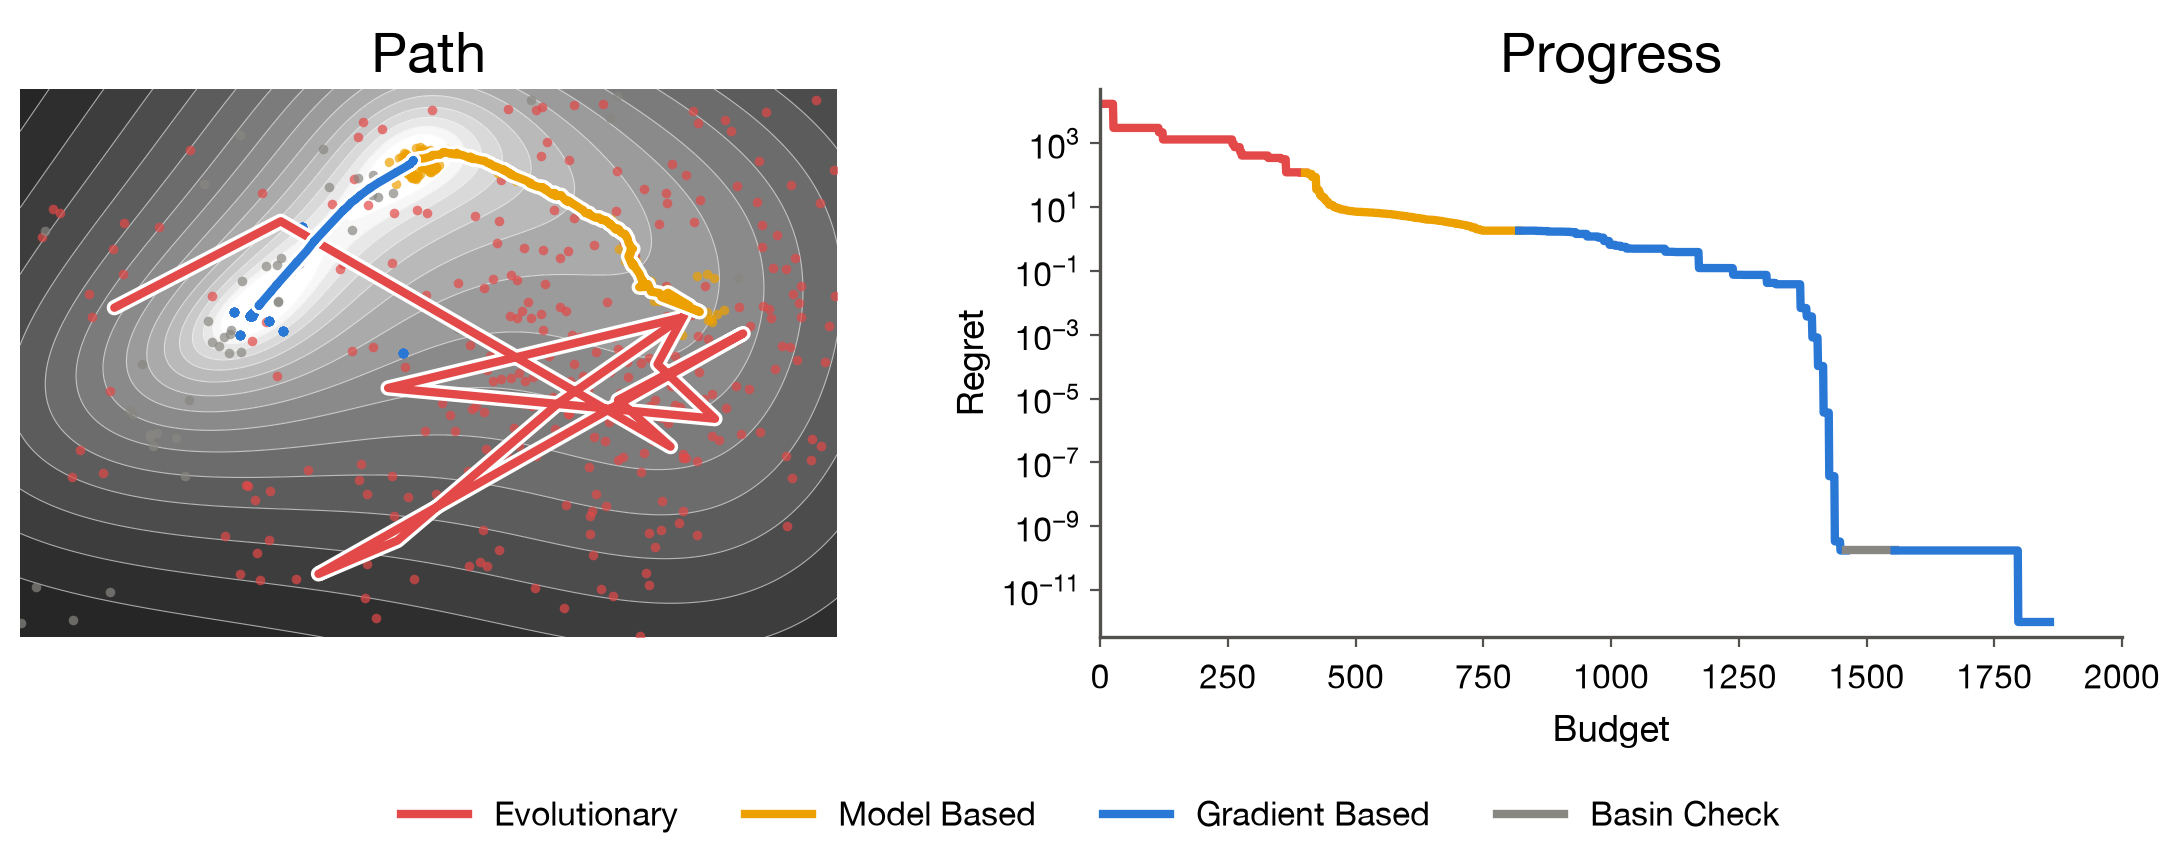
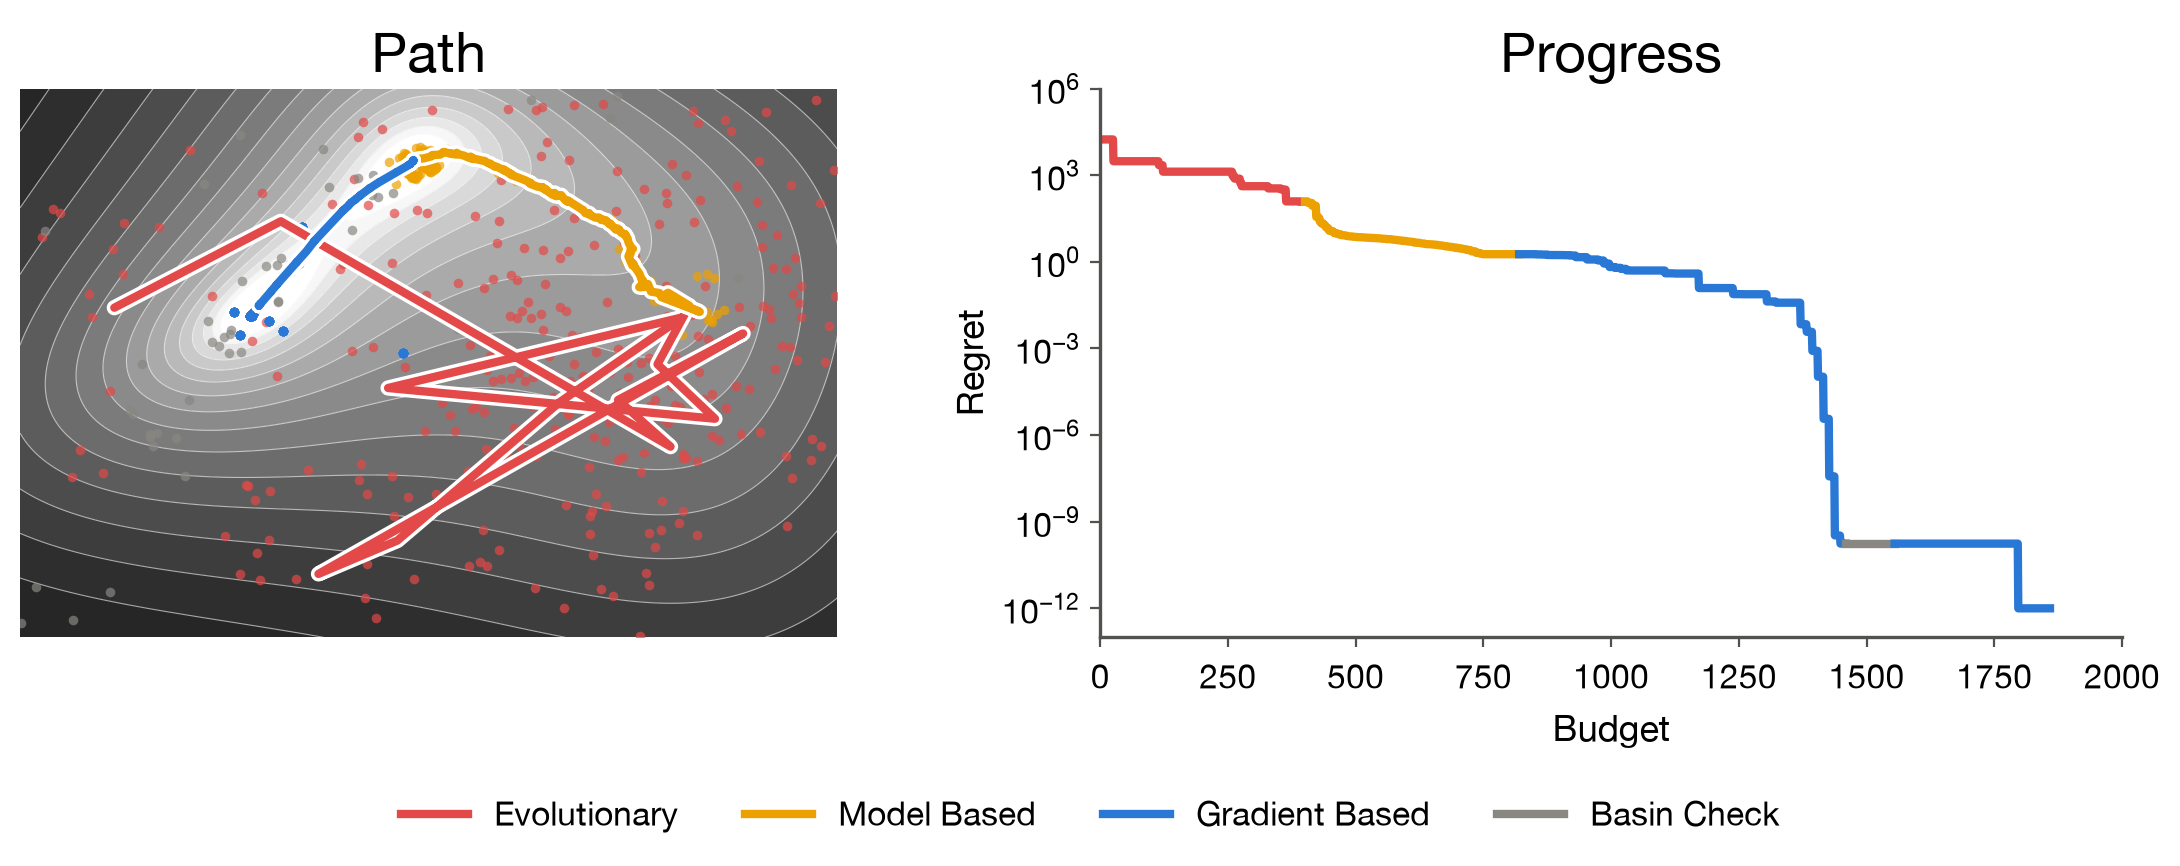
Add single-optimizer Rosenbrock figures sharing the agent switching slice
Extend the figure palette to five validated series. Refactor the switching figure so any run on rosenbrock_d10_i1 projects onto the agent's slice with a fixed Progress range, and add BOBYQA and CMA-ES figures and GIFs drawn the same way, a standalone stage legend, and an untitled crossover variant.

diff --git a/main/scripts/make_agent_switching_plot.py b/main/scripts/make_agent_switching_plot.py
@@ -32,7 +32,10 @@ all); yellow is under 3:1 contrast, relieved by the legend labels. Basin Check
 is neutral gray, not a categorical hue.
 
 Usage (from main/):
-    python scripts/make_agent_switching_plot.py    # writes results_linux/agent_switching_rosenbrock.png
+    python scripts/make_agent_switching_plot.py
+    # writes results_linux/agent_switching_rosenbrock.png and
+    # results_linux/legend_rosenbrock_stages.png: the stage legend on its own,
+    # one entry per row, shared by the agent and single-optimizer figures
 """
 
 from __future__ import annotations
@@ -58,6 +61,7 @@ RUN = MAIN / "agent_runs/astra_max_2000_20261022/analysis/rosenbrock_d10_i1"
 TASK_KEY = "rosenbrock10"
 F_OPT_META = MAIN / "results_full/rosenbrock_d10_i1/cma_es/seed_0/meta.json"
 OUT = MAIN / "results_linux/agent_switching_rosenbrock.png"
+OUT_LEGEND = MAIN / "results_linux/legend_rosenbrock_stages.png"
 
 # (legend label, color, optimizer labels in the trace)
 STAGES = [
@@ -72,6 +76,11 @@ BACKGROUND = LinearSegmentedColormap.from_list("gray_ramp", ["#ffffff", "#262626
 N_BANDS = 14
 HALO = [pe.Stroke(linewidth=fs.LINE_WIDTH + 2.5, foreground="#ffffff"), pe.Normal()]
 REGRET_FLOOR = 1e-12
+# One Progress y-range for the agent and every single-optimizer figure on this
+# task (make_single_optimizer_plot.py), so their panels can be compared directly.
+# It spans the agent's 0 regret (drawn at fs.FLOOR) up to the highest starting
+# regret among those runs (CMA-ES seed 1, ~4e5).
+PROGRESS_YLIM = (1e-13, 1e6)
 
 
 def load_run():
@@ -100,7 +109,11 @@ def incumbent_path(regret):
 
 
 def slice_geometry(X, regret, stage, f_opt):
-    """Project every point onto the plane and evaluate the objective on a grid there."""
+    """The agent's plane (see plane_basis) and the objective evaluated on a grid in it.
+
+    Any run on this task can be drawn on the same slice with project_run, so
+    figures for different optimizers share one landscape.
+    """
     task = TASKS[TASK_KEY]()
     origin, u, v = plane_basis(X, regret, stage)
     P = (X - origin) @ np.stack([u, v]).T
@@ -113,27 +126,32 @@ def slice_geometry(X, regret, stage, f_opt):
     Z = np.array([task._f(p) for p in pts.reshape(-1, X.shape[1])]).reshape(g1.shape) - f_opt
     logZ = np.log10(np.maximum(Z, REGRET_FLOOR))
     levels = np.linspace(*np.percentile(logZ, [2, 98]), N_BANDS + 1)
-    return dict(P=P, inc=inc, g1=g1, g2=g2, logZ=logZ, levels=levels)
+    return dict(origin=origin, basis=np.stack([u, v]), g1=g1, g2=g2, logZ=logZ, levels=levels)
 
 
-def draw_path(ax, geo, stage, upto):
+def project_run(geo, X, regret, stage):
+    """A run's points on the slice plus what the panels need to draw it."""
+    return dict(P=(X - geo["origin"]) @ geo["basis"].T, inc=incumbent_path(regret), regret=regret, stage=stage)
+
+
+def draw_path(ax, geo, run, upto, stages=STAGES):
     """Background slice plus every point and incumbent among the first `upto` evaluations."""
-    P, g1, g2 = geo["P"], geo["g1"], geo["g2"]
+    P, stage, g1, g2 = run["P"], run["stage"], geo["g1"], geo["g2"]
     ax.contourf(g1, g2, geo["logZ"], levels=geo["levels"], cmap=BACKGROUND, extend="both")
     ax.contour(g1, g2, geo["logZ"], levels=geo["levels"], colors="#ffffff", linewidths=0.4, alpha=0.6)
     shown = np.arange(len(P)) < upto
     in_view = (P[:, 0] >= g1.min()) & (P[:, 0] <= g1.max()) & (P[:, 1] >= g2.min()) & (P[:, 1] <= g2.max())
-    for i, (_, color, _) in enumerate(STAGES):
+    for i, (_, color, _) in enumerate(stages):
         m = (stage == i) & in_view & shown
         ax.scatter(P[m, 0], P[m, 1], s=12, color=color, alpha=0.7, linewidths=0, zorder=2)
     # One polyline per run of consecutive incumbents from the same stage, so the
     # white outline is drawn once around the run rather than around every step.
     # Each run starts at the previous run's last incumbent to keep the path joined.
-    inc = geo["inc"][geo["inc"] < upto]
+    inc = run["inc"][run["inc"] < upto]
     runs = np.split(np.arange(len(inc)), np.flatnonzero(np.diff(stage[inc])) + 1) if len(inc) else []
-    for run in runs:
-        idx = inc[np.r_[max(run[0] - 1, 0), run]]
-        ax.plot(P[idx, 0], P[idx, 1], color=STAGES[stage[inc[run[0]]]][1], linewidth=fs.LINE_WIDTH,
+    for r in runs:
+        idx = inc[np.r_[max(r[0] - 1, 0), r]]
+        ax.plot(P[idx, 0], P[idx, 1], color=stages[stage[inc[r[0]]]][1], linewidth=fs.LINE_WIDTH,
                 solid_capstyle="round", solid_joinstyle="round", path_effects=HALO, zorder=3)
     ax.set_xlim(g1.min(), g1.max())
     ax.set_ylim(g2.min(), g2.max())
@@ -144,36 +162,50 @@ def draw_path(ax, geo, stage, upto):
     ax.set_title("Path", fontsize=fs.TITLE_SIZE)
 
 
-def draw_progress(ax, regret, stage, upto):
-    """Best-so-far regret over the first `upto` evaluations; axes fixed to the full run."""
-    best = np.maximum(np.minimum.accumulate(regret), fs.FLOOR)
+def draw_progress(ax, run, upto, stages=STAGES, ylim=PROGRESS_YLIM):
+    """Best-so-far regret over the first `upto` evaluations, on fixed axes."""
+    stage = run["stage"]
+    best = np.maximum(np.minimum.accumulate(run["regret"]), fs.FLOOR)
     x = np.arange(1, len(best) + 1)
     starts = np.flatnonzero(np.r_[True, stage[1:] != stage[:-1]])
     for a, b in zip(starts, np.r_[starts[1:], len(best)]):
         if a >= upto:
             break
         lo = max(a - 1, 0)  # join each stage to the previous one's last point
-        ax.plot(x[lo:min(b, upto)], best[lo:min(b, upto)], color=STAGES[stage[a]][1], linewidth=fs.LINE_WIDTH)
+        ax.plot(x[lo:min(b, upto)], best[lo:min(b, upto)], color=stages[stage[a]][1], linewidth=fs.LINE_WIDTH)
     fs.style_axes(ax, "Progress", 2000, ylabel=True)
-    ax.set_ylim(best.min() / 3, best.max() * 3)
+    ax.set_ylim(*ylim)
 
 
-def build_figure(geo, regret, stage, upto, dpi=fs.DPI):
+def build_figure(geo, run, upto, stages=STAGES, ylim=PROGRESS_YLIM, dpi=fs.DPI):
     fig, (ax_path, ax_prog) = plt.subplots(1, 2, figsize=fs.FIGSIZE_1x2, dpi=dpi,
                                            gridspec_kw={"width_ratios": [1, 1.25]})
-    draw_path(ax_path, geo, stage, upto)
-    draw_progress(ax_prog, regret, stage, upto)
-    handles = [Line2D([], [], color=color, linewidth=fs.LINE_WIDTH) for _, color, _ in STAGES]
-    fig.legend(handles, [label for label, _, _ in STAGES], loc="lower center", ncol=len(STAGES),
+    draw_path(ax_path, geo, run, upto, stages)
+    draw_progress(ax_prog, run, upto, stages, ylim)
+    handles = [Line2D([], [], color=color, linewidth=fs.LINE_WIDTH) for _, color, _ in stages]
+    fig.legend(handles, [label for label, _, _ in stages], loc="lower center", ncol=len(stages),
                frameon=False, fontsize=fs.LEGEND_SIZE, bbox_to_anchor=(0.5, -0.04))
     fig.tight_layout(w_pad=4, rect=(0, 0.06, 1, 1))
     return fig
 
 
+def write_legend(out, stages=STAGES):
+    """The stage legend as its own image: one entry per row, nothing else."""
+    fig = plt.figure(figsize=(3, 2))
+    handles = [Line2D([], [], color=color, linewidth=fs.LINE_WIDTH) for _, color, _ in stages]
+    legend = fig.legend(handles, [label for label, _, _ in stages], loc="center", ncol=1,
+                        frameon=False, fontsize=fs.LEGEND_SIZE)
+    fig.savefig(out, dpi=fs.DPI, bbox_inches=legend.get_window_extent().transformed(fig.dpi_scale_trans.inverted()).padded(0.05))
+    plt.close(fig)
+    print("wrote", out)
+
+
 def main():
+    write_legend(OUT_LEGEND)
     X, regret, stage = load_run()
     f_opt = json.loads(F_OPT_META.read_text())["task_f_opt"]
-    fig = build_figure(slice_geometry(X, regret, stage, f_opt), regret, stage, upto=len(regret))
+    geo = slice_geometry(X, regret, stage, f_opt)
+    fig = build_figure(geo, project_run(geo, X, regret, stage), upto=len(regret))
     fig.savefig(OUT, dpi=fs.DPI, bbox_inches="tight")
     print("wrote", OUT)
 

diff --git a/main/scripts/make_single_optimizer_plot.py b/main/scripts/make_single_optimizer_plot.py
@@ -1,0 +1,86 @@
+"""Single optimizers on rosenbrock_d10_i1, drawn like the agent switching
+figure so they can be compared side by side (make_agent_switching_plot.py,
+make_agent_switching_gif.py). --method picks the run:
+
+  bobyqa   the best single optimizer: lowest final regret among the nine
+           standalone baselines (6.3e-13, stopping itself after 1,596
+           evaluations; deterministic, one seed).
+  cma_es   CMA-ES alone, the agent's first stage run for the whole budget.
+           It has 10 seeds; the animation needs one trajectory, so it uses
+           the seed whose final regret is closest to the 10-seed median
+           (seed 1: 4.13 vs. median 4.40). Seeds range 2.8-8.6.
+
+Runs come from results_full, the baseline set the Astra max campaign is
+scored against (its summary.csv). results_linux is not used: its BOBYQA run on
+this task has a 100-evaluation budget.
+
+Comparability with the agent figure:
+  - same landscape slice: the agent's plane, extents and contour bands;
+    the run's points are projected onto it (positions exact in the plane,
+    distance from the plane not shown);
+  - same Progress axes: x 0-2000, y fixed by sw.PROGRESS_YLIM for every run;
+  - same color and label for the method family as the agent's stage
+    (Model Based yellow, Evolutionary red);
+  - the GIF steps the same number of evaluations per frame as the agent GIF,
+    so both play at the same speed.
+
+Usage (from main/):
+    python scripts/make_single_optimizer_plot.py                   # bobyqa
+    python scripts/make_single_optimizer_plot.py --method cma_es
+    # writes results_linux/single_optimizer_rosenbrock_<method>.{png,gif}
+"""
+
+from __future__ import annotations
+
+import argparse
+import csv
+import json
+import sys
+from pathlib import Path
+
+import numpy as np
+
+sys.path.insert(0, str(Path(__file__).resolve().parent))
+import make_agent_switching_plot as sw  # noqa: E402  (also applies figure_style rcParams)
+import make_agent_switching_gif as anim  # noqa: E402
+import figure_style as fs  # noqa: E402
+
+# method -> (seed, stage label, color); label and color match the agent's stage for that family
+METHODS = {
+    "bobyqa": (0, "Model Based", "#eda100"),
+    "cma_es": (1, "Evolutionary", "#e34948"),  # median-final seed, see module docstring
+}
+
+
+def load_baseline(method, seed):
+    run_dir = sw.MAIN / f"results_full/rosenbrock_d10_i1/{method}/seed_{seed}"
+    rows = list(csv.DictReader(open(run_dir / "trace.csv")))
+    meta = json.loads((run_dir / "meta.json").read_text())
+    X = np.array([[float(r[f"x{i}"]) for i in range(meta["task_dim"])] for r in rows])
+    regret = np.array([float(r["y"]) for r in rows]) - meta["task_f_opt"]
+    return X, regret, np.zeros(len(rows), dtype=int)
+
+
+def main():
+    parser = argparse.ArgumentParser(description=__doc__.splitlines()[0])
+    parser.add_argument("--method", choices=METHODS, default="bobyqa")
+    method = parser.parse_args().method
+    seed, label, color = METHODS[method]
+    stages = [(label, color, {method})]
+    out_png = sw.MAIN / f"results_linux/single_optimizer_rosenbrock_{method}.png"
+    out_gif = out_png.with_suffix(".gif")
+    Xa, regret_a, stage_a = sw.load_run()
+    f_opt = json.loads(sw.F_OPT_META.read_text())["task_f_opt"]
+    geo = sw.slice_geometry(Xa, regret_a, stage_a, f_opt)
+    run = sw.project_run(geo, *load_baseline(method, seed))
+
+    fig = sw.build_figure(geo, run, len(run["regret"]), stages)
+    fig.savefig(out_png, dpi=fs.DPI, bbox_inches="tight")
+    print("wrote", out_png)
+
+    evals_per_frame = len(regret_a) / anim.N_FRAMES
+    anim.write_gif(geo, run, out_gif, stages, n_frames=round(len(run["regret"]) / evals_per_frame))
+
+
+if __name__ == "__main__":
+    main()

diff --git a/main/scripts/make_agent_switching_gif.py b/main/scripts/make_agent_switching_gif.py
@@ -52,28 +52,33 @@ def to_shared_palette(frames, n_colors=128):
     return out
 
 
-def main():
-    X, regret, stage = sw.load_run()
-    f_opt = json.loads(sw.F_OPT_META.read_text())["task_f_opt"]
-    geo = sw.slice_geometry(X, regret, stage, f_opt)
-    n = len(regret)
-    uptos = sorted({max(1, round(n * (k + 1) / N_FRAMES)) for k in range(N_FRAMES)})
+def write_gif(geo, run, out, stages=sw.STAGES, ylim=sw.PROGRESS_YLIM, n_frames=N_FRAMES):
+    """Animate both panels of build_figure over `run` and save the GIF to `out`."""
+    n = len(run["regret"])
+    uptos = sorted({max(1, round(n * (k + 1) / n_frames)) for k in range(n_frames)})
     # Crop every frame to the full run's tight bounding box: one fixed crop keeps
     # all frames the same size and leaves room for the legend below the panels.
-    fig = sw.build_figure(geo, regret, stage, n, dpi=DPI)
+    fig = sw.build_figure(geo, run, n, stages, ylim, dpi=DPI)
     crop = fig.get_tightbbox(fig.canvas.get_renderer()).padded(0.1)
     plt.close(fig)
     frames = []
     for upto in uptos:
-        fig = sw.build_figure(geo, regret, stage, upto, dpi=DPI)
+        fig = sw.build_figure(geo, run, upto, stages, ylim, dpi=DPI)
         buf = io.BytesIO()
         fig.savefig(buf, format="png", dpi=DPI, bbox_inches=crop)
         plt.close(fig)
         frames.append(Image.open(buf).convert("RGB"))
     frames = to_shared_palette(frames)
     durations = [FRAME_MS] * (len(frames) - 1) + [HOLD_MS]
-    frames[0].save(OUT, save_all=True, append_images=frames[1:], duration=durations, loop=0, optimize=True)
-    print(f"wrote {OUT} ({len(frames)} frames, {OUT.stat().st_size / 1e6:.1f} MB)")
+    frames[0].save(out, save_all=True, append_images=frames[1:], duration=durations, loop=0, optimize=True)
+    print(f"wrote {out} ({len(frames)} frames, {out.stat().st_size / 1e6:.1f} MB)")
+
+
+def main():
+    X, regret, stage = sw.load_run()
+    f_opt = json.loads(sw.F_OPT_META.read_text())["task_f_opt"]
+    geo = sw.slice_geometry(X, regret, stage, f_opt)
+    write_gif(geo, sw.project_run(geo, X, regret, stage), OUT)
 
 
 if __name__ == "__main__":

diff --git a/main/scripts/make_crossover_plot.py b/main/scripts/make_crossover_plot.py
@@ -12,11 +12,13 @@ Legend: "Gradient Based" is L-BFGS-B (deterministic, one seed), "Evolutionary
 Based" is CMA-ES (10 seeds). Style follows FIGURES.md via figure_style.py.
 
 Usage (from main/):
-    python scripts/make_crossover_plot.py    # writes results_linux/crossover_rosenbrock_vs_mixint.png
+    python scripts/make_crossover_plot.py               # writes results_linux/crossover_rosenbrock_vs_mixint.png
+    python scripts/make_crossover_plot.py --no-titles   # same figure without panel titles, *_untitled.png
 """
 
 from __future__ import annotations
 
+import argparse
 import json
 import sys
 from pathlib import Path
@@ -28,6 +30,7 @@ import matplotlib.pyplot as plt  # noqa: E402
 
 RESULTS = MAIN_ROOT / "results_linux"
 OUT = RESULTS / "crossover_rosenbrock_vs_mixint.png"
+OUT_UNTITLED = RESULTS / "crossover_rosenbrock_vs_mixint_untitled.png"
 METHODS = [("lbfgsb", "Gradient Based"), ("cma_es", "Evolutionary Based")]
 PANELS = [  # (task, title)
     ("rosenbrock_d10_i1", "Smooth"),
@@ -42,14 +45,18 @@ def seed_trajectories(task, method):
 
 
 def main():
+    parser = argparse.ArgumentParser(description=__doc__.splitlines()[0])
+    parser.add_argument("--no-titles", action="store_true", help="omit panel titles (e.g. when the caption names the panels)")
+    no_titles = parser.parse_args().no_titles
+    out = OUT_UNTITLED if no_titles else OUT
     fig, axes = plt.subplots(1, len(PANELS), figsize=fs.FIGSIZE_1x2)
     for i, (ax, (task, title)) in enumerate(zip(axes, PANELS)):
         for (method, label), color in zip(METHODS, fs.SERIES_COLORS):
             trajs, budget = seed_trajectories(task, method)
             fs.plot_series(ax, trajs, budget, color, label)
-        fs.style_axes(ax, title, budget, ylabel=i == 0)
-    fs.finish(fig, axes, OUT)
-    print("wrote", OUT)
+        fs.style_axes(ax, "" if no_titles else title, budget, ylabel=i == 0)
+    fs.finish(fig, axes, out)
+    print("wrote", out)
 
 
 if __name__ == "__main__":

diff --git a/main/scripts/figure_style.py b/main/scripts/figure_style.py
@@ -21,11 +21,13 @@ import matplotlib.pyplot as plt
 import numpy as np
 
 # ---- color ----
-# Series hues in fixed order: series i always gets SERIES_COLORS[i]. The pair
-# passes the dataviz skill's validate_palette.py (--mode light --surface
-# #ffffff) on every check. A figure with more series must extend this list and
+# Series hues in fixed order: series i always gets SERIES_COLORS[i]. The full
+# list passes the dataviz skill's validate_palette.py (--mode light --surface
+# #ffffff --pairs all); aqua and yellow WARN on contrast and aqua/red WARN on
+# deutan separation, so figures with 3+ series rely on the legend as the
+# secondary encoding. A figure with more series must extend this list and
 # re-run the validator on the full ordered list first.
-SERIES_COLORS = ["#2a78d6", "#e34948"]  # blue, red
+SERIES_COLORS = ["#2a78d6", "#e34948", "#1baf7a", "#eda100", "#008300"]  # blue, red, aqua, yellow, green
 BAND_ALPHA = 0.18
 TEXT = "#000000"       # every piece of text
 AXIS = "#52514e"       # spines and tick marks

diff --git a/main/FIGURES.md b/main/FIGURES.md
@@ -41,8 +41,8 @@ Reference figure: `results_linux/crossover_rosenbrock_vs_mixint.png`, produced b
 
 ## Color
 
-- Series colors in fixed order: series 1 `#2a78d6` (blue), series 2 `#e34948` (red). The same method keeps the same color across every panel of a figure.
-- This pair passes every check of the dataviz palette validator (`validate_palette.py --mode light --surface #ffffff`). A figure with more series must extend `SERIES_COLORS` and re-run the validator on the full ordered list before use.
+- Series colors in fixed order: series 1 `#2a78d6` (blue), series 2 `#e34948` (red), series 3 `#1baf7a` (aqua), series 4 `#eda100` (yellow), series 5 `#008300` (green). The same method keeps the same color across every panel of a figure.
+- The first two pass every check of the dataviz palette validator (`validate_palette.py --mode light --surface #ffffff`). The full five pass with `--pairs all`, with warnings: aqua and yellow are below 3:1 contrast on white and aqua/red is in the deutan 6-8 band, so a figure using 3+ series must keep the legend. A figure with more series must extend `SERIES_COLORS` and re-run the validator on the full ordered list before use.
 - Background pure white (`#ffffff`) everywhere: figure, axes and the saved file. No off-white or transparent backgrounds.
 
 ## Schematics
